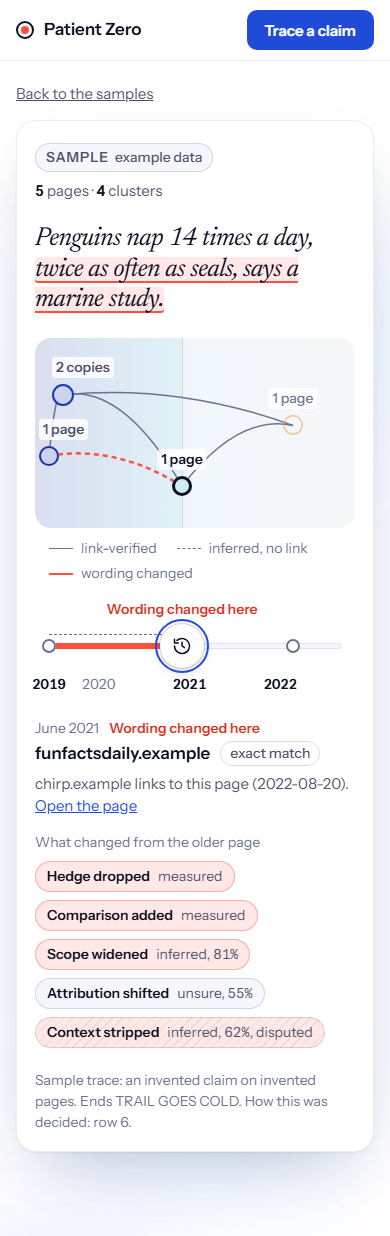
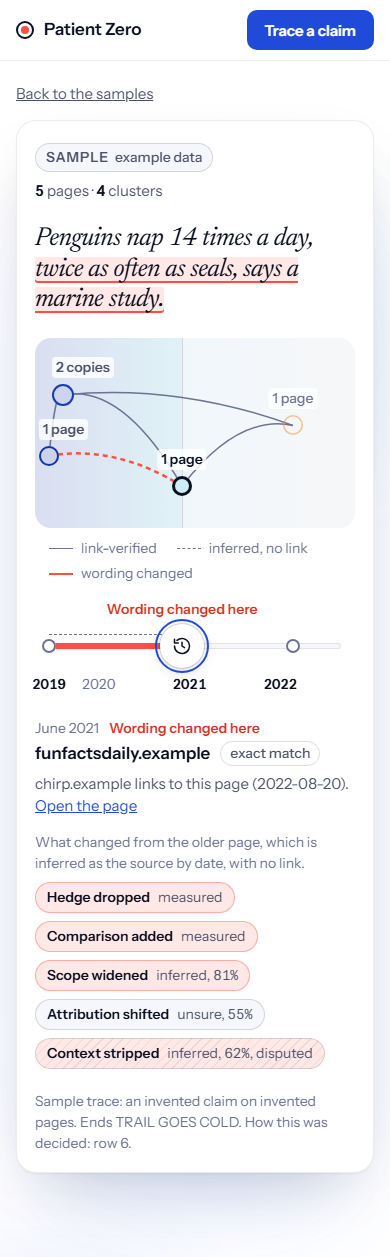
Say when the older page is only inferred as the source

diff --git a/apps/web/src/model/hop.ts b/apps/web/src/model/hop.ts
@@ -13,7 +13,8 @@ const LABELS: Record<Readout["id"], string> = {
 
 // One readout that fired on a hop. An unsure readout is drawn neutral, never as a change.
 export type Chip = { id: Readout["id"]; label: string; tag: string; tone: "changed" | "unsure"; disputed: boolean };
-export type HopView = { edgeId: string; red: boolean; chips: Chip[] };
+// inferred: no link joins the two pages; the older one is taken as the source by date alone.
+export type HopView = { edgeId: string; red: boolean; inferred: boolean; chips: Chip[] };
 
 const percent = (p: number | null) => (p === null ? "" : `, ${Math.round(p * 100)}%`);
 
@@ -31,13 +32,20 @@ export function hopInto(trace: Trace, stops: Stop[], i: number): HopView | null 
   if (!stop || !edge || edge.childSpanId !== stop.spanId) return null;
   const hop = trace.hops.find((h) => h.edgeId === edge.id);
   const chips = (hop?.readouts ?? []).filter((r) => r.value !== "no").map(chip);
-  return { edgeId: edge.id, red: edge.id === trace.redHopEdgeId, chips };
+  return { edgeId: edge.id, red: edge.id === trace.redHopEdgeId, inferred: edge.kind === "inferred", chips };
 }
 
 // The stop where the wording changed on the red hop, or -1 when the trace has none on the scrubber's path.
 export function redStop(trace: Trace, stops: Stop[]): number {
   if (trace.redHopEdgeId === null) return -1;
   return stops.findIndex((_, i) => hopInto(trace, stops, i)?.red === true);
+}
+
+// The line over the chips. When no link joins the pages, it says the older page is only inferred as the source
+// (XO on #181), so a "measured" chip is never read as measured against a linked source.
+export function readoutsHead(hop: HopView): string {
+  const what = hop.chips.length > 0 ? "What changed from the older page" : "Nothing we check for changed from the older page";
+  return hop.inferred ? `${what}, which is inferred as the source by date, with no link.` : hop.chips.length > 0 ? what : `${what}.`;
 }
 
 // Neighbouring words with the same mark joined, so a changed phrase reads as one run, not one box per word.

diff --git a/apps/web/src/model/hop.test.ts b/apps/web/src/model/hop.test.ts
@@ -2,7 +2,7 @@ import { describe, expect, it } from "vitest";
 import { loadTraces } from "../data/loadTraces.ts";
 import { lintText } from "../../../../packages/pz/src/cli/lint-copy.ts";
 import { scrubberStops, type Word } from "./scrubber.ts";
-import { hopInto, redStop, runs } from "./hop.ts";
+import { hopInto, readoutsHead, redStop, runs } from "./hop.ts";
 
 const { traces } = loadTraces();
 const byId = (id: string) => traces.find((t) => t.id === id)!;
@@ -53,6 +53,21 @@ describe("hopInto", () => {
       const stops = scrubberStops(t);
       for (let i = 0; i < stops.length; i++) for (const c of hopInto(t, stops, i)?.chips ?? []) expect(lintText(`${c.label} ${c.tag}`)).toEqual([]);
     }
+  });
+});
+
+describe("readoutsHead", () => {
+  it("says the older page is only inferred as the source when no link joins them (XO on #181)", () => {
+    const rich = byId("sample-rich");
+    const stops = scrubberStops(rich);
+    const red = hopInto(rich, stops, 1)!;
+    expect(red.inferred).toBe(true);
+    expect(readoutsHead(red)).toBe("What changed from the older page, which is inferred as the source by date, with no link.");
+    const linked = hopInto(rich, stops, 0)!;
+    expect(linked.inferred).toBe(false);
+    expect(readoutsHead(linked)).toBe("What changed from the older page");
+    expect(readoutsHead({ ...linked, chips: [] })).toBe("Nothing we check for changed from the older page.");
+    for (const h of [red, linked]) expect(lintText(readoutsHead(h))).toEqual([]);
   });
 });
 

diff --git a/apps/web/src/components/TraceView.tsx b/apps/web/src/components/TraceView.tsx
@@ -1,6 +1,6 @@
 import { useEffect, useMemo, useState } from "react";
 import type { Trace } from "pz/schema";
-import { hopInto, redStop } from "../model/hop.ts";
+import { hopInto, readoutsHead, redStop } from "../model/hop.ts";
 import { scrubberStops, stopNote } from "../model/scrubber.ts";
 import { ModeBadge } from "./ModeBadge.tsx";
 import { Scrubber, stopXs, xAt } from "./Scrubber.tsx";
@@ -84,7 +84,7 @@ export function TraceView({ trace }: { trace: Trace }) {
                 </p>
                 {into && (
                   <div className="readouts">
-                    <p className="readouts-head">{into.chips.length > 0 ? "What changed from the older page" : "Nothing we check for changed from the older page."}</p>
+                    <p className="readouts-head">{readoutsHead(into)}</p>
                     {into.chips.length > 0 && (
                       <ul className="readout-list" key={`${trace.id}-${open}`}>
                         {into.chips.map((c, n) => (
